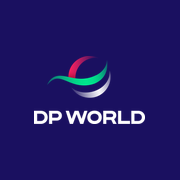
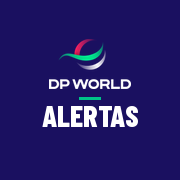
Íconos de app instalada iguales en todas (kit/pwa/generar_iconos.py)
Mismo fondo índigo, logo DP World, línea verde y nombre corto de la app en Barlow Condensed. Se sube la versión de caché del service worker para que tomen los íconos nuevos.

Claude-Session: https://claude.ai/code/session_016HvEN8KWBxrFoq9wy1oQZd

Changed region(s): [[0.25, 0.1944, 0.75, 0.5556], [0.1667, 0.5833, 0.8056, 0.7222]]

diff --git a/public/sw.js b/public/sw.js
@@ -2,7 +2,7 @@
 // Permite instalar la app y abrirla sin conexión. La app se pide primero a la red (siempre la versión publicada);
 // la copia guardada solo se usa sin conexión. Supabase nunca se guarda: los datos van siempre al servidor.
 // Al publicar un cambio grande, sube la versión de CACHE.
-const CACHE = 'alertas-v1';
+const CACHE = 'alertas-v2';
 const BASE = ['./', './manifest.webmanifest', './dpw/dpw-shell.css', './dpw/dpw-shell.js', './dpw/dpw-escenas.js',
   './dpw/assets/dpworld-logo-fondo-claro.png', './dpw/pwa/icon-192.png', './dpw/pwa/icon-512.png'];
 

diff --git a/.claude/skills/linea-grafica/kit/pwa/generar_iconos.py b/.claude/skills/linea-grafica/kit/pwa/generar_iconos.py
@@ -1,0 +1,60 @@
+"""Íconos de app instalable, iguales para todas las apps DP World Panamá (skill linea-grafica).
+
+Mismo fondo índigo #1A1060, logo DP World en blanco, línea verde #00C389 y el nombre corto de la app
+en Barlow Condensed 800 mayúsculas. Todo dentro de la zona segura de los íconos «maskable».
+
+Uso:  python3 generar_iconos.py "HORAS" carpeta_destino
+Genera icon-512.png, icon-192.png, apple-touch-icon.png (180) y favicon-32.png.
+"""
+import os, sys
+from PIL import Image, ImageDraw, ImageFont
+
+AQUI = os.path.dirname(os.path.abspath(__file__))
+INDIGO, VERDE, BLANCO = (26, 16, 96), (0, 195, 137), (255, 255, 255)
+
+
+def icono(nombre, lado=512):
+    im = Image.new("RGBA", (lado, lado), INDIGO + (255,))
+    d = ImageDraw.Draw(im)
+    logo = Image.open(os.path.join(AQUI, "..", "assets", "dpworld-logo-fondo-oscuro.png")).convert("RGBA")
+    ancho = int(lado * 0.46)
+    logo = logo.resize((ancho, int(logo.height * ancho / logo.width)), Image.LANCZOS)
+    y_logo = int(lado * 0.22)
+    im.alpha_composite(logo, ((lado - ancho) // 2, y_logo))
+    # línea verde bajo el logo
+    y_lin = y_logo + logo.height + int(lado * 0.045)
+    d.rectangle([(lado - lado * 0.12) / 2, y_lin, (lado + lado * 0.12) / 2, y_lin + max(2, lado * 0.012)], fill=VERDE)
+    # nombre corto: el tamaño se ajusta para no salir de la zona segura (72 % del ancho)
+    fuente_ruta = os.path.join(AQUI, "barlow-condensed-800.woff")
+    t = int(lado * 0.17)
+    while True:
+        f = ImageFont.truetype(fuente_ruta, t)
+        caja = d.textbbox((0, 0), nombre, font=f)
+        if caja[2] - caja[0] <= lado * 0.72 or t < 8:
+            break
+        t -= 2
+    w = caja[2] - caja[0]
+    d.text(((lado - w) / 2 - caja[0], y_lin + int(lado * 0.05) - caja[1]), nombre, font=f, fill=BLANCO)
+    return im
+
+
+def generar(nombre, destino):
+    os.makedirs(destino, exist_ok=True)
+    grande = icono(nombre.upper(), 512)
+    grande.convert("RGB").save(os.path.join(destino, "icon-512.png"))
+    for archivo, lado in (("icon-192.png", 192), ("apple-touch-icon.png", 180)):
+        icono(nombre.upper(), lado).convert("RGB").save(os.path.join(destino, archivo))
+    # favicon: solo el fondo índigo y la línea verde con la inicial, legible a 32 px
+    fav = Image.new("RGB", (32, 32), INDIGO)
+    d = ImageDraw.Draw(fav)
+    f = ImageFont.truetype(os.path.join(AQUI, "barlow-condensed-800.woff"), 24)
+    c = d.textbbox((0, 0), nombre[0].upper(), font=f)
+    d.text(((32 - (c[2] - c[0])) / 2 - c[0], 3 - c[1] + 2), nombre[0].upper(), font=f, fill=BLANCO)
+    d.rectangle([9, 27, 23, 28], fill=VERDE)
+    fav.save(os.path.join(destino, "favicon-32.png"))
+
+
+if __name__ == "__main__":
+    if len(sys.argv) != 3:
+        sys.exit(__doc__)
+    generar(sys.argv[1], sys.argv[2])

diff --git a/.claude/skills/linea-grafica/SKILL.md b/.claude/skills/linea-grafica/SKILL.md
@@ -17,7 +17,7 @@ El kit está en `kit/` junto a este archivo:
 | `dpw-mapa.js` | Escena `mapa` (Panamá y rutas a 14 puertos). Solo la cargan las apps que la usan (35 KB). |
 | `plantilla.html` | Ejemplo completo y vista previa: `plantilla.html?escena=patio`, `&login=0`, `&tema=light`. |
 | `assets/` | Logos para fondo claro y oscuro. |
-| `pwa/` | `sw.js` y `manifest.webmanifest` de partida, íconos de la app (192, 512, Apple) y favicon. |
+| `pwa/` | `sw.js` y `manifest.webmanifest` de partida y `generar_iconos.py`, que crea los íconos de la app instalada (512, 192, Apple y favicon). |
 
 En cada app, el kit se copia a una carpeta `dpw/` servida junto al `index.html` (en Next.js: `public/dpw/` para los scripts y logos, y `src/app/dpw-shell.css` importado en `layout.tsx`; la cinta y el menú van como componentes React con las mismas clases, ver `alertas-calidad-app/src/components/AppHeader.tsx` y `Portada.tsx`). Si se cambia el kit, se cambia aquí en HubApp y se vuelve a copiar a cada repo; no se edita la copia de una sola app.
 
@@ -29,6 +29,7 @@ En cada app, el kit se copia a una carpeta `dpw/` servida junto al `index.html` 
 4. **Navegación en el menú desplegable.** Toda sección de la app va como fila del menú lateral (botón de tres rayas a la izquierda de la cinta). Las vistas especiales (Insights, Vista TV, Reportes, Configuración) también. La cinta solo lleva Instalar, Claro/Oscuro, el rol y Salir.
 5. **Tema claro y oscuro en todas**, con el botón de texto de la cinta (`Claro` / `Oscuro`, muestra a cuál cambia). Se guarda en `localStorage` con la clave común `dpw_tema` y vive en `<html data-theme="light|dark">`. Cada app elige su tema por defecto (Cotizador, Alertas y Control de Horas: claro; Inspección y Hub: oscuro). Las vistas de TV o piso de operación pueden quedarse oscuras, y la vista previa de documentos sigue siendo papel blanco.
 6. **Botón Instalar en todas**: en la cinta y como píldora en el login. Aparece solo cuando el navegador permite instalar; en iPhone explica el paso manual. Cada app lleva `manifest.webmanifest`, `sw.js` y los íconos de `kit/pwa/`.
+   **Ícono de la app instalada igual en todas**: fondo índigo `#1A1060`, logo DP World en blanco, línea verde `#00C389` y el nombre corto de la app en Barlow Condensed 800 (HORAS, RAMPAS, COTIZADOR, ALERTAS, PORTAL, LAST MILE). Se genera con `python3 kit/pwa/generar_iconos.py "NOMBRE" carpeta`; no se dibujan íconos a mano.
 7. **Tipografía y color**: Barlow (cuerpo) y Barlow Condensed 700–800 en mayúsculas (títulos, etiquetas, botones). Índigo `#1A1060` (hover `#2A1F8F`), verde `#00C389` para acentos, ámbar `#f5a20b` advertencia, rojo `#E8003D` error. Fondo oscuro `#0d0b28`, superficies `#16143d` / `#1e1c50`; en claro, fondo `#F2F3F8` y tarjetas blancas.
 
 ## Escenas por app
